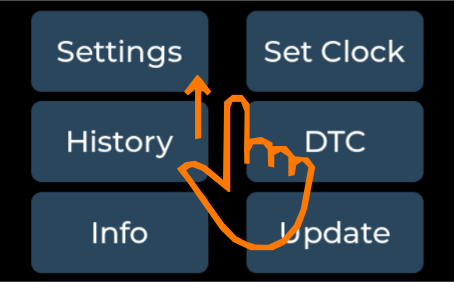
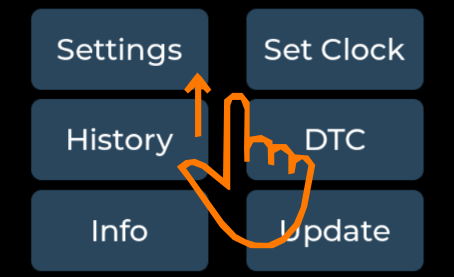
1.1.10

diff --git a/pl/mini/index.html b/pl/mini/index.html
@@ -39,6 +39,45 @@
   <div class="container">
 
 <h1>DPF Monitor Mini</h1>
+<h2>Specyfikacja techniczna</h2>
+<div class="table-container">
+
+  <table>
+    <tbody>
+      <tr>
+        <td>Napięcie pracy</td>
+        <td style="text-align:right;">6-19V (28V MAX)</td>
+      </tr>
+      <tr>
+        <td>Pobór prądu podczas działania</td>
+        <td style="text-align:right;">~60mA</td>
+      </tr>
+      <tr>
+        <td>Pobór prądu podczas uśpienia</td>
+        <td style="text-align:right;">&lt;<8mA@12.5V 25st</td>
+      </tr>
+      <tr>
+        <td>Obsługiwany standard CAN</td>
+        <td style="text-align:right;">UDS</td>
+      </tr>
+      <tr>
+        <td>Wyświetlacz</td>
+        <td style="text-align:right;">AMOLED 460x280px</td>
+      </tr>
+      <tr>
+        <td>Materiał obudowy</td>
+        <td style="text-align:right;">ASA-CF (wyświetlacz), PETG-CF (moduł OBD2)</td>
+      </tr>
+      <tr>
+        <td>Długość przewodu</td>
+        <td style="text-align:right;">1.40m</td>
+      </tr>
+    </tbody>
+  </table>
+
+</div>
+
+
 <h2>Instrukcja użytkownika</h2>
 <p><b>UAWAGA! Pierwsze podłączenie urządzenia w samochodzie powinno być wykonane zawsze na włączonym silniku.</b></p>
 <h2>1. Ekran główny</h2>
@@ -73,7 +112,7 @@
 <li>Menu składa się z sześciu podstron</li>
 <li>Po wejściu do dowolnej podstony, wyjście odbywa się zawsze wykonując gest przesunięcia palcem z lewej strony do prawej.</li>
 <img src="/assets/img/info.png" alt="Menu" class="center-image">
-<li>Wyjście z menu odbywa się poprzez gest przesunięcia palcem z góry do dołu.</li>
+<li>Wyjście z menu odbywa się poprzez gest przesunięcia palcem z dołu do góry.</li>
 <img src="/assets/img/menu1.png" alt="Menu" class="center-image">
 <h2>3. Ustawienia</h2>
 <img src="/assets/img/settings1.png" alt="Ustawienia" class="center-image">
